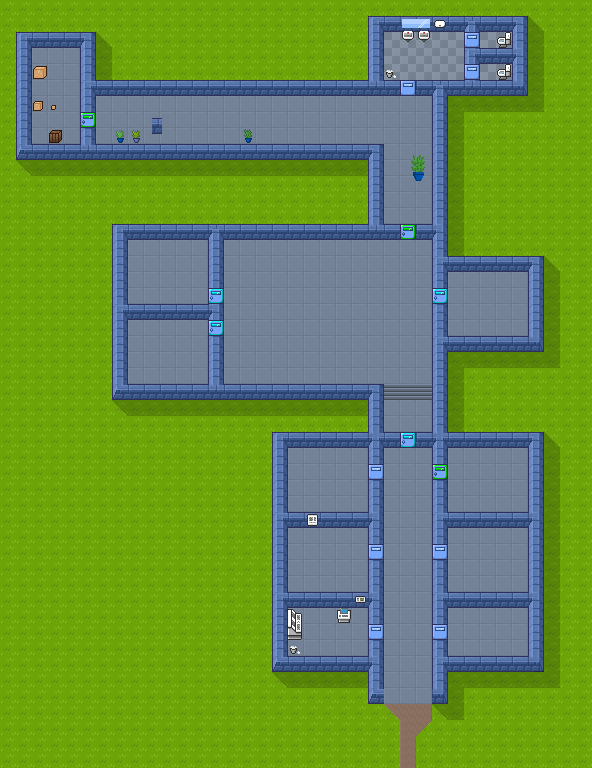
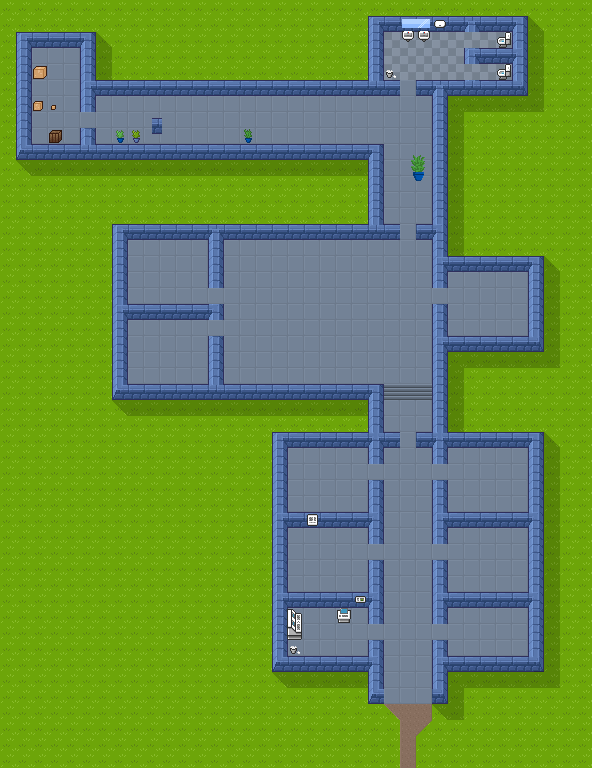
creation of the Object DoorObject (test object so far)

diff --git a/ReversedRebecca/src/com/sunsigne/reversedrebecca/object/puzzler/DoorObject.java b/ReversedRebecca/src/com/sunsigne/reversedrebecca/object/puzzler/DoorObject.java
@@ -1,0 +1,73 @@
+package com.sunsigne.reversedrebecca.object.puzzler;
+
+import java.awt.Graphics;
+import java.awt.image.BufferedImage;
+
+import com.sunsigne.reversedrebecca.object.GameObject;
+import com.sunsigne.reversedrebecca.object.characteristics.CollisionDetector;
+import com.sunsigne.reversedrebecca.object.characteristics.CollisionReactor;
+import com.sunsigne.reversedrebecca.ressources.images.ImageTask;
+
+public class DoorObject extends GameObject implements CollisionReactor {
+
+	// change lvl into enum DIFFICULTY
+	public DoorObject(int lvl, int x, int y) {
+		super(x, y);
+		this.lvl = lvl;
+		loadImages();
+	}
+	
+	////////// NAME ////////////
+
+	public String getName() {
+		return "door";
+	}
+	
+	////////// LEVEL ////////////
+
+	private int lvl;
+
+	////////// TICK ////////////
+
+	@Override
+	public void tick() {
+
+	}
+
+	////////// TEXTURE ////////////
+
+	// Create a list instead of an array
+	private BufferedImage[] images = new BufferedImage[7];
+	
+	// make a loop, taking the name (color) from a getName into the enum DIFFICULTY
+	private void loadImages() {
+		images[0] = new ImageTask().loadImage("textures/" + getName() + "/" + "none" + ".png");
+		images[1] = new ImageTask().loadImage("textures/" + getName() + "/" + "cyan" + ".png");
+		images[2] = new ImageTask().loadImage("textures/" + getName() + "/" + "green" + ".png");
+		images[3] = new ImageTask().loadImage("textures/" + getName() + "/" + "yellow" + ".png");
+		images[4] = new ImageTask().loadImage("textures/" + getName() + "/" + "orange" + ".png");
+		images[5] = new ImageTask().loadImage("textures/" + getName() + "/" + "red" + ".png");
+		images[6] = new ImageTask().loadImage("textures/" + getName() + "/" + "purple" + ".png");
+	}
+	
+	public BufferedImage getImage() {
+		return images[lvl];
+	}
+
+	////////// RENDER ////////////
+
+	// this method is the only one which is ok XD but it should be in a parent PuzzleObject
+	@Override
+	public void render(Graphics g) {
+		g.drawImage(getImage(), getX(), getY(), getWidth(), getHeight(), null);
+	}
+
+	////////// COLLISION ////////////
+	
+	// of course the final door mecanics is more complexe
+	@Override
+	public void collidingReaction(CollisionDetector detectorObject) {
+		collidingReaction(detectorObject, false, () -> getHandler().removeObject(this));
+	}
+
+}

diff --git a/ReversedRebecca/src/com/sunsigne/reversedrebecca/world/mapcreator/mappable/MappableGreenDoor.java b/ReversedRebecca/src/com/sunsigne/reversedrebecca/world/mapcreator/mappable/MappableGreenDoor.java
@@ -1,0 +1,26 @@
+package com.sunsigne.reversedrebecca.world.mapcreator.mappable;
+
+import com.sunsigne.reversedrebecca.object.GameObject;
+import com.sunsigne.reversedrebecca.object.Wall;
+import com.sunsigne.reversedrebecca.object.puzzler.DoorObject;
+import com.sunsigne.reversedrebecca.world.mapcreator.MapCreator;
+
+public class MappableGreenDoor implements Mappable {
+
+	static {
+		new MapCreator().getList().addObject(new MappableGreenDoor());
+	}
+	
+	////////// MAPPABLE ////////////
+	
+	@Override
+	public GameObject createObject(int x, int y) {
+		return new DoorObject(2, x, y);
+	}
+	
+	@Override
+	public int[] rgbCode() {
+		int[] rgb = {0, 255, 2};
+		return rgb;
+	}	
+}

diff --git a/ReversedRebecca/src/com/sunsigne/reversedrebecca/world/mapcreator/mappable/MappableCyanDoor.java b/ReversedRebecca/src/com/sunsigne/reversedrebecca/world/mapcreator/mappable/MappableCyanDoor.java
@@ -1,0 +1,26 @@
+package com.sunsigne.reversedrebecca.world.mapcreator.mappable;
+
+import com.sunsigne.reversedrebecca.object.GameObject;
+import com.sunsigne.reversedrebecca.object.Wall;
+import com.sunsigne.reversedrebecca.object.puzzler.DoorObject;
+import com.sunsigne.reversedrebecca.world.mapcreator.MapCreator;
+
+public class MappableCyanDoor implements Mappable {
+
+	static {
+		new MapCreator().getList().addObject(new MappableCyanDoor());
+	}
+	
+	////////// MAPPABLE ////////////
+	
+	@Override
+	public GameObject createObject(int x, int y) {
+		return new DoorObject(1, x, y);
+	}
+	
+	@Override
+	public int[] rgbCode() {
+		int[] rgb = {0, 255, 1};
+		return rgb;
+	}	
+}

diff --git a/ReversedRebecca/src/com/sunsigne/reversedrebecca/world/mapcreator/mappable/MappableNoneDoor.java b/ReversedRebecca/src/com/sunsigne/reversedrebecca/world/mapcreator/mappable/MappableNoneDoor.java
@@ -1,0 +1,26 @@
+package com.sunsigne.reversedrebecca.world.mapcreator.mappable;
+
+import com.sunsigne.reversedrebecca.object.GameObject;
+import com.sunsigne.reversedrebecca.object.Wall;
+import com.sunsigne.reversedrebecca.object.puzzler.DoorObject;
+import com.sunsigne.reversedrebecca.world.mapcreator.MapCreator;
+
+public class MappableNoneDoor implements Mappable {
+
+	static {
+		new MapCreator().getList().addObject(new MappableNoneDoor());
+	}
+	
+	////////// MAPPABLE ////////////
+	
+	@Override
+	public GameObject createObject(int x, int y) {
+		return new DoorObject(0, x, y);
+	}
+	
+	@Override
+	public int[] rgbCode() {
+		int[] rgb = {0, 255, 0};
+		return rgb;
+	}	
+}
